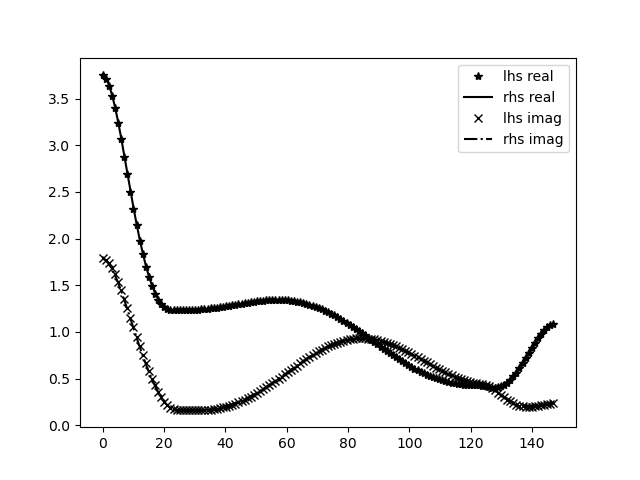
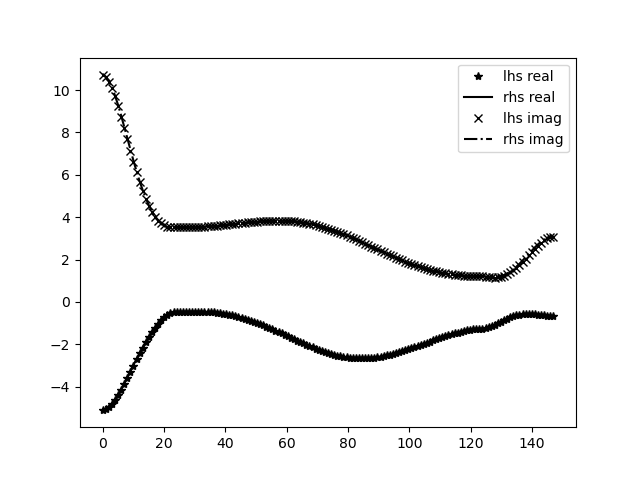
Excitation plots

diff --git a/MA2/PYTHON/diffraction_excitation.py b/MA2/PYTHON/diffraction_excitation.py
@@ -5,11 +5,10 @@ if __name__ == "__main__":
     import matplotlib.pyplot as plt
     args = parse_args()
     Nx = args.Nx; Ny = args.Ny; D = args.D
-    #Ls = [.1, 1, 2, 10]
-    Ls = [2]
+    Ls = [.1, 1, 2, 10]
     for L in Ls:
         print(f"L: {L}")
-        N = 5; i = 0
+        N = 100; i = 0
         kDs = linspace(0, 2, N+2)[1:-1]
         X_integral = []; X_froudekrylov = []
         X_haskind1 = []; X_haskind2 = []
